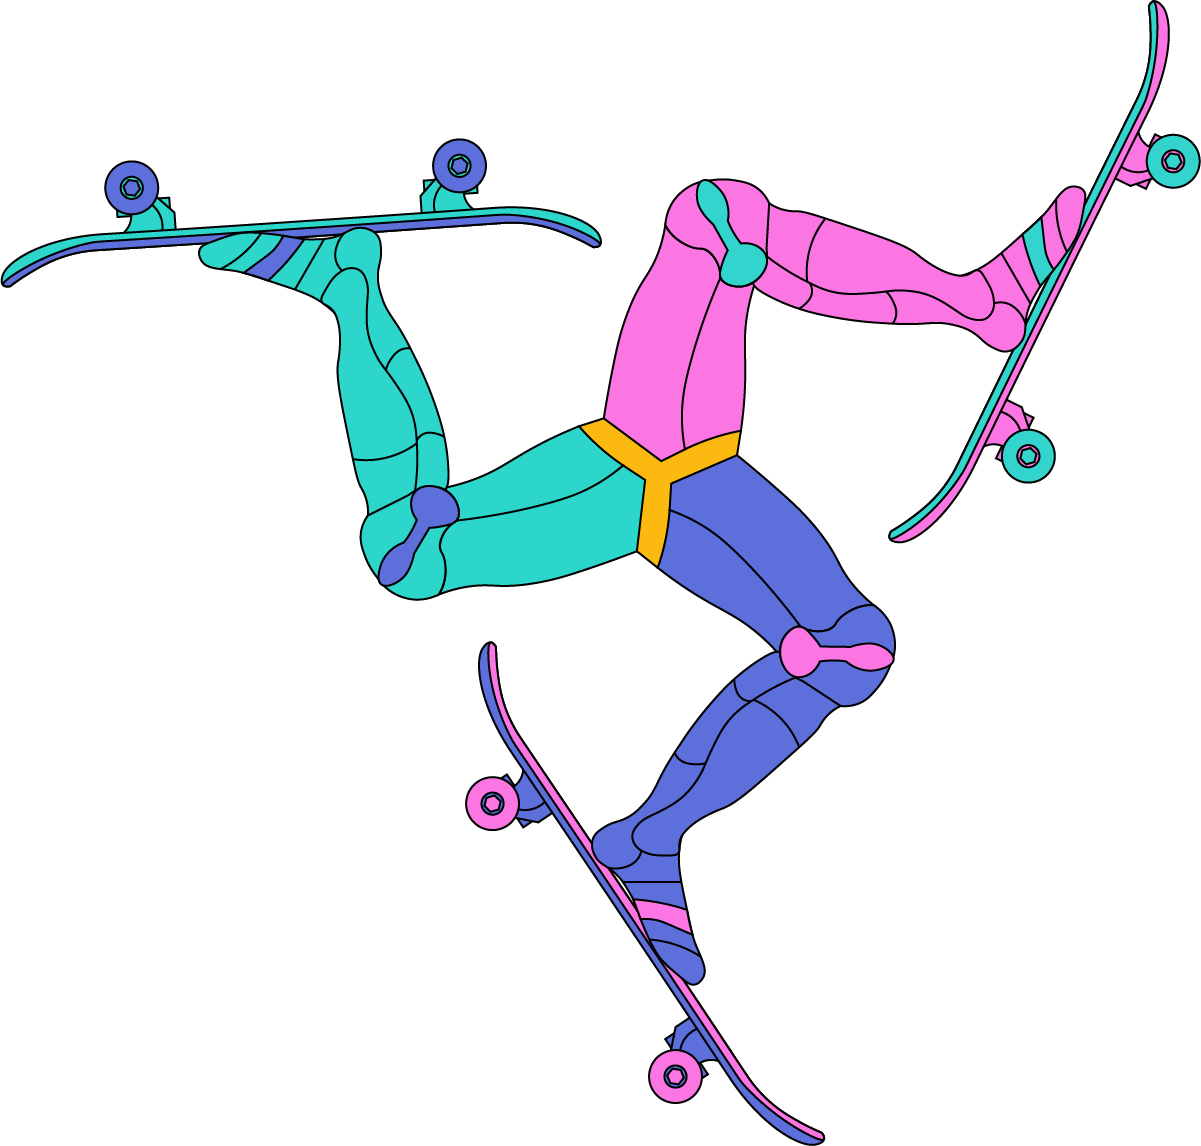
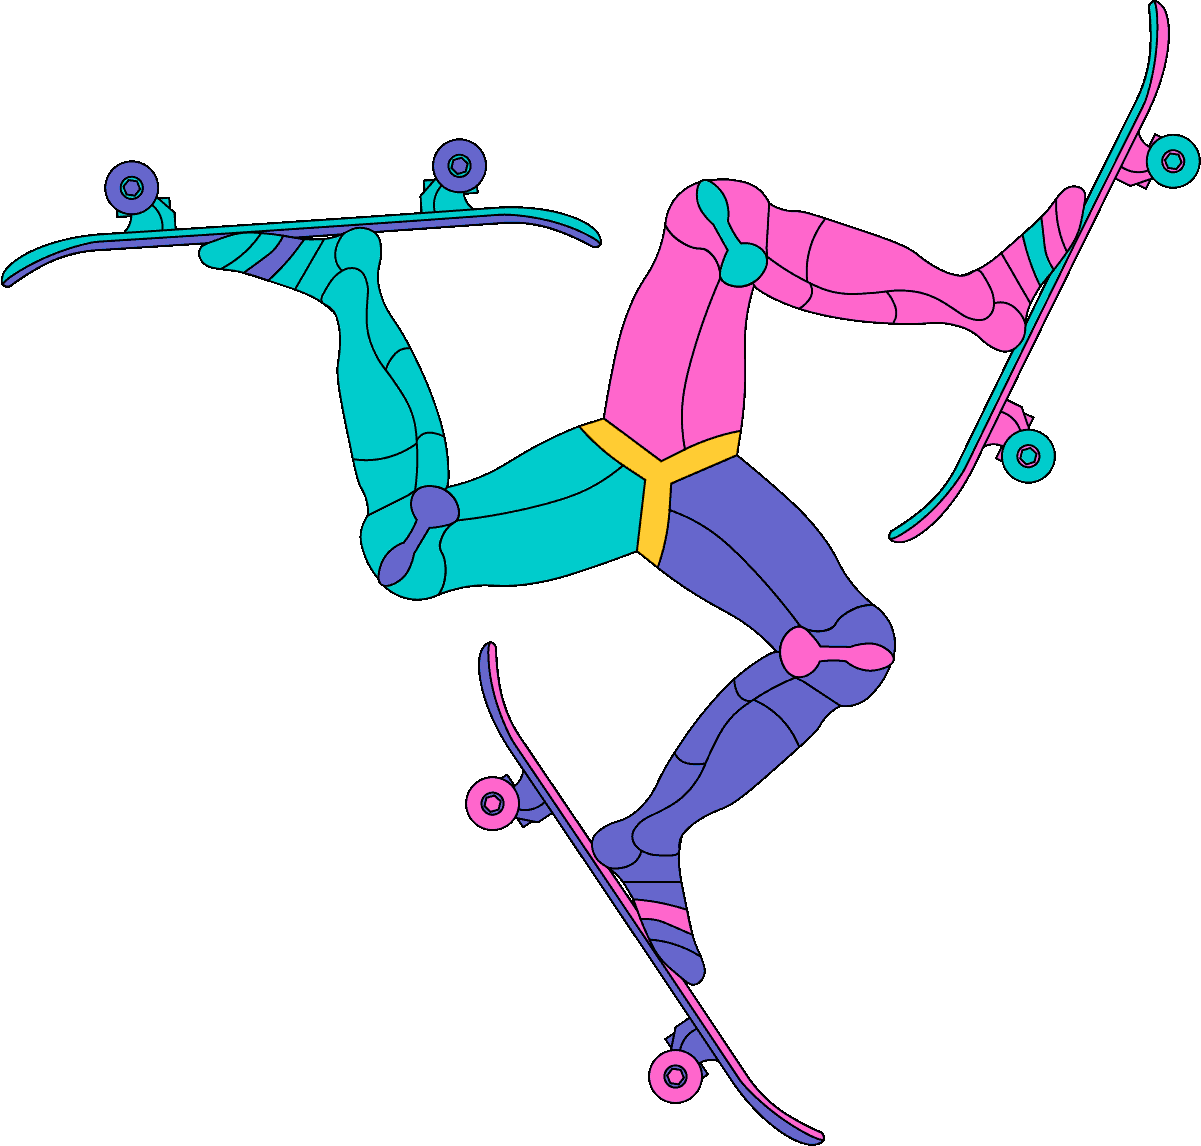
Optimize images
- Also removes reference comments

diff --git a/index.html b/index.html
@@ -1,7 +1,6 @@
 <!DOCTYPE html>
 <html lang="en">
     <head>
-        <!-- Reference: https://www.w3schools.com/tags/tag_meta.asp -->
         <meta charset="utf-8">
         <meta name="description" content="Vincent Nguyen personal website 2020">
         <meta name="keywords" content="Personal, Website, Gamer, Developer, Modern, Design, HTML, CSS, SVG, JavaScript">
@@ -15,13 +14,11 @@
         <link rel="stylesheet" href="style/main.css">
         <link rel="stylesheet" href="style/nav.css">
 
-        <!-- Reference: https://stackoverflow.com/a/56423507 -->
         <link rel="preconnect" href="https://fonts.gstatic.com/" crossorigin>
         <link rel="stylesheet" href="https://fonts.googleapis.com/css?family=Questrial&display=swap">
     </head>
     <body>
         <nav>
-            <!-- Reference: https://code-boxx.com/simple-responsive-pure-css-hamburger-menu/ -->
             <a id="logo" href="#"><img src="images/vtn-logo.svg" alt="Logo"></a>
             <label id="hamburger-label" for="hamburger" tabindex="0"><img src="images/hamburger.svg" alt="Hamburger menu"></label>
             <input type="checkbox" id="hamburger">

diff --git a/script/nav.js b/script/nav.js
@@ -1,6 +1,5 @@
-// Reference: https://stackoverflow.com/a/36607837
 document.addEventListener("DOMContentLoaded", function () {
-    var nav = document.querySelector("nav");
+    let nav = document.querySelector("nav");
 
     document.onscroll = function (e) {
         if (e.target.scrollingElement.scrollTop > 0) {
@@ -11,7 +10,6 @@ document.addEventListener("DOMContentLoaded", function () {
     };
 });
 
-// Reference: https://developer.mozilla.org/en-US/docs/Web/API/GlobalEventHandlers/onkeydown
 const input = document.getElementById("hamburger-label");
 
 input.onkeydown = toggleDropdown;
@@ -20,7 +18,7 @@ function toggleDropdown(e) {
     if (e.code != "Enter")
         return;
     
-    var hamburger = document.getElementById("hamburger");
+    let hamburger = document.getElementById("hamburger");
 
     if (hamburger.checked)
         hamburger.checked = false;

diff --git a/style/main.css b/style/main.css
@@ -79,7 +79,6 @@ a:hover, a:focus, a:active {
     transform: scale(1.2);
 }
 .card-thumb img {
-    max-width: 100%;
     max-height: 100%;
     transition: transform .2s;
 }
